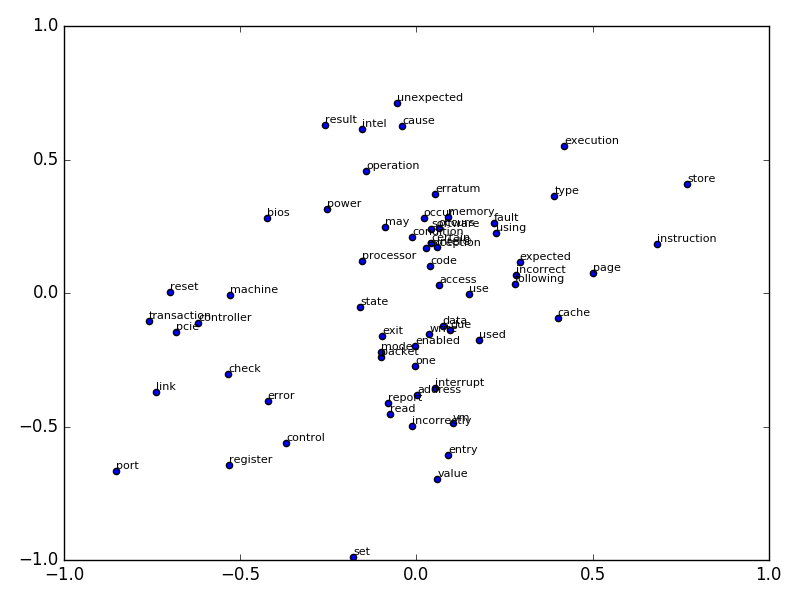
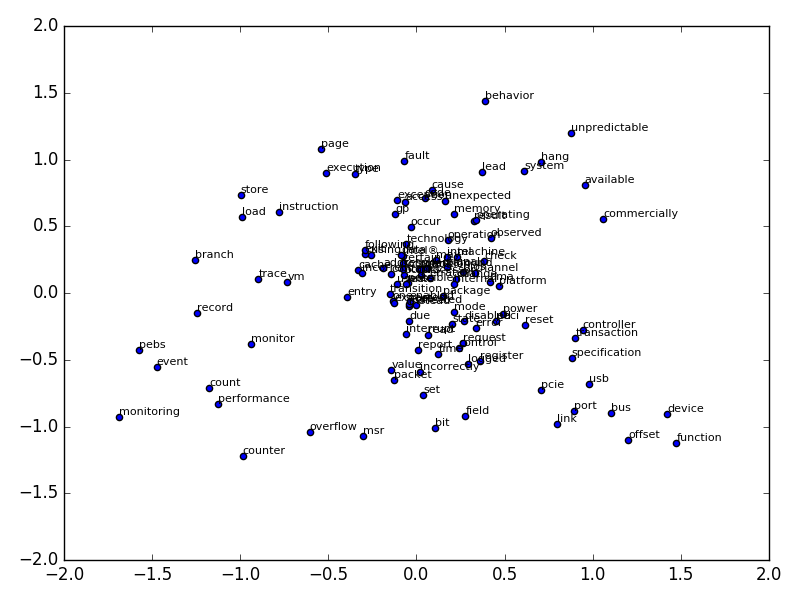
Adding plots

diff --git a/word2vec/word2vec.py b/word2vec/word2vec.py
@@ -56,7 +56,7 @@ for doc in scan(es, query=query_text, index=INDEX):
 	#if  i == 10:
 	#	break
 
-model = Word2Vec(bug_details, min_count=200)
+model = Word2Vec(bug_details, min_count=150)
 
 X = model[model.vocab]
 pca = PCA(n_components=2)
@@ -67,8 +67,8 @@ words = list(model.vocab)
 for i, word in enumerate(words):
 	plt.annotate(word, xy=(result[i, 0], result[i, 1]), size=8, ha='left', va='bottom')
 
-plt.xlim(-1, 1)
-plt.ylim(-1, 1)
+plt.xlim(-2, 2)
+plt.ylim(-2, 2)
 
 plt.tight_layout() #show plot with tight layout
 plt.savefig("word2vec_vectors.png") #show the plot
